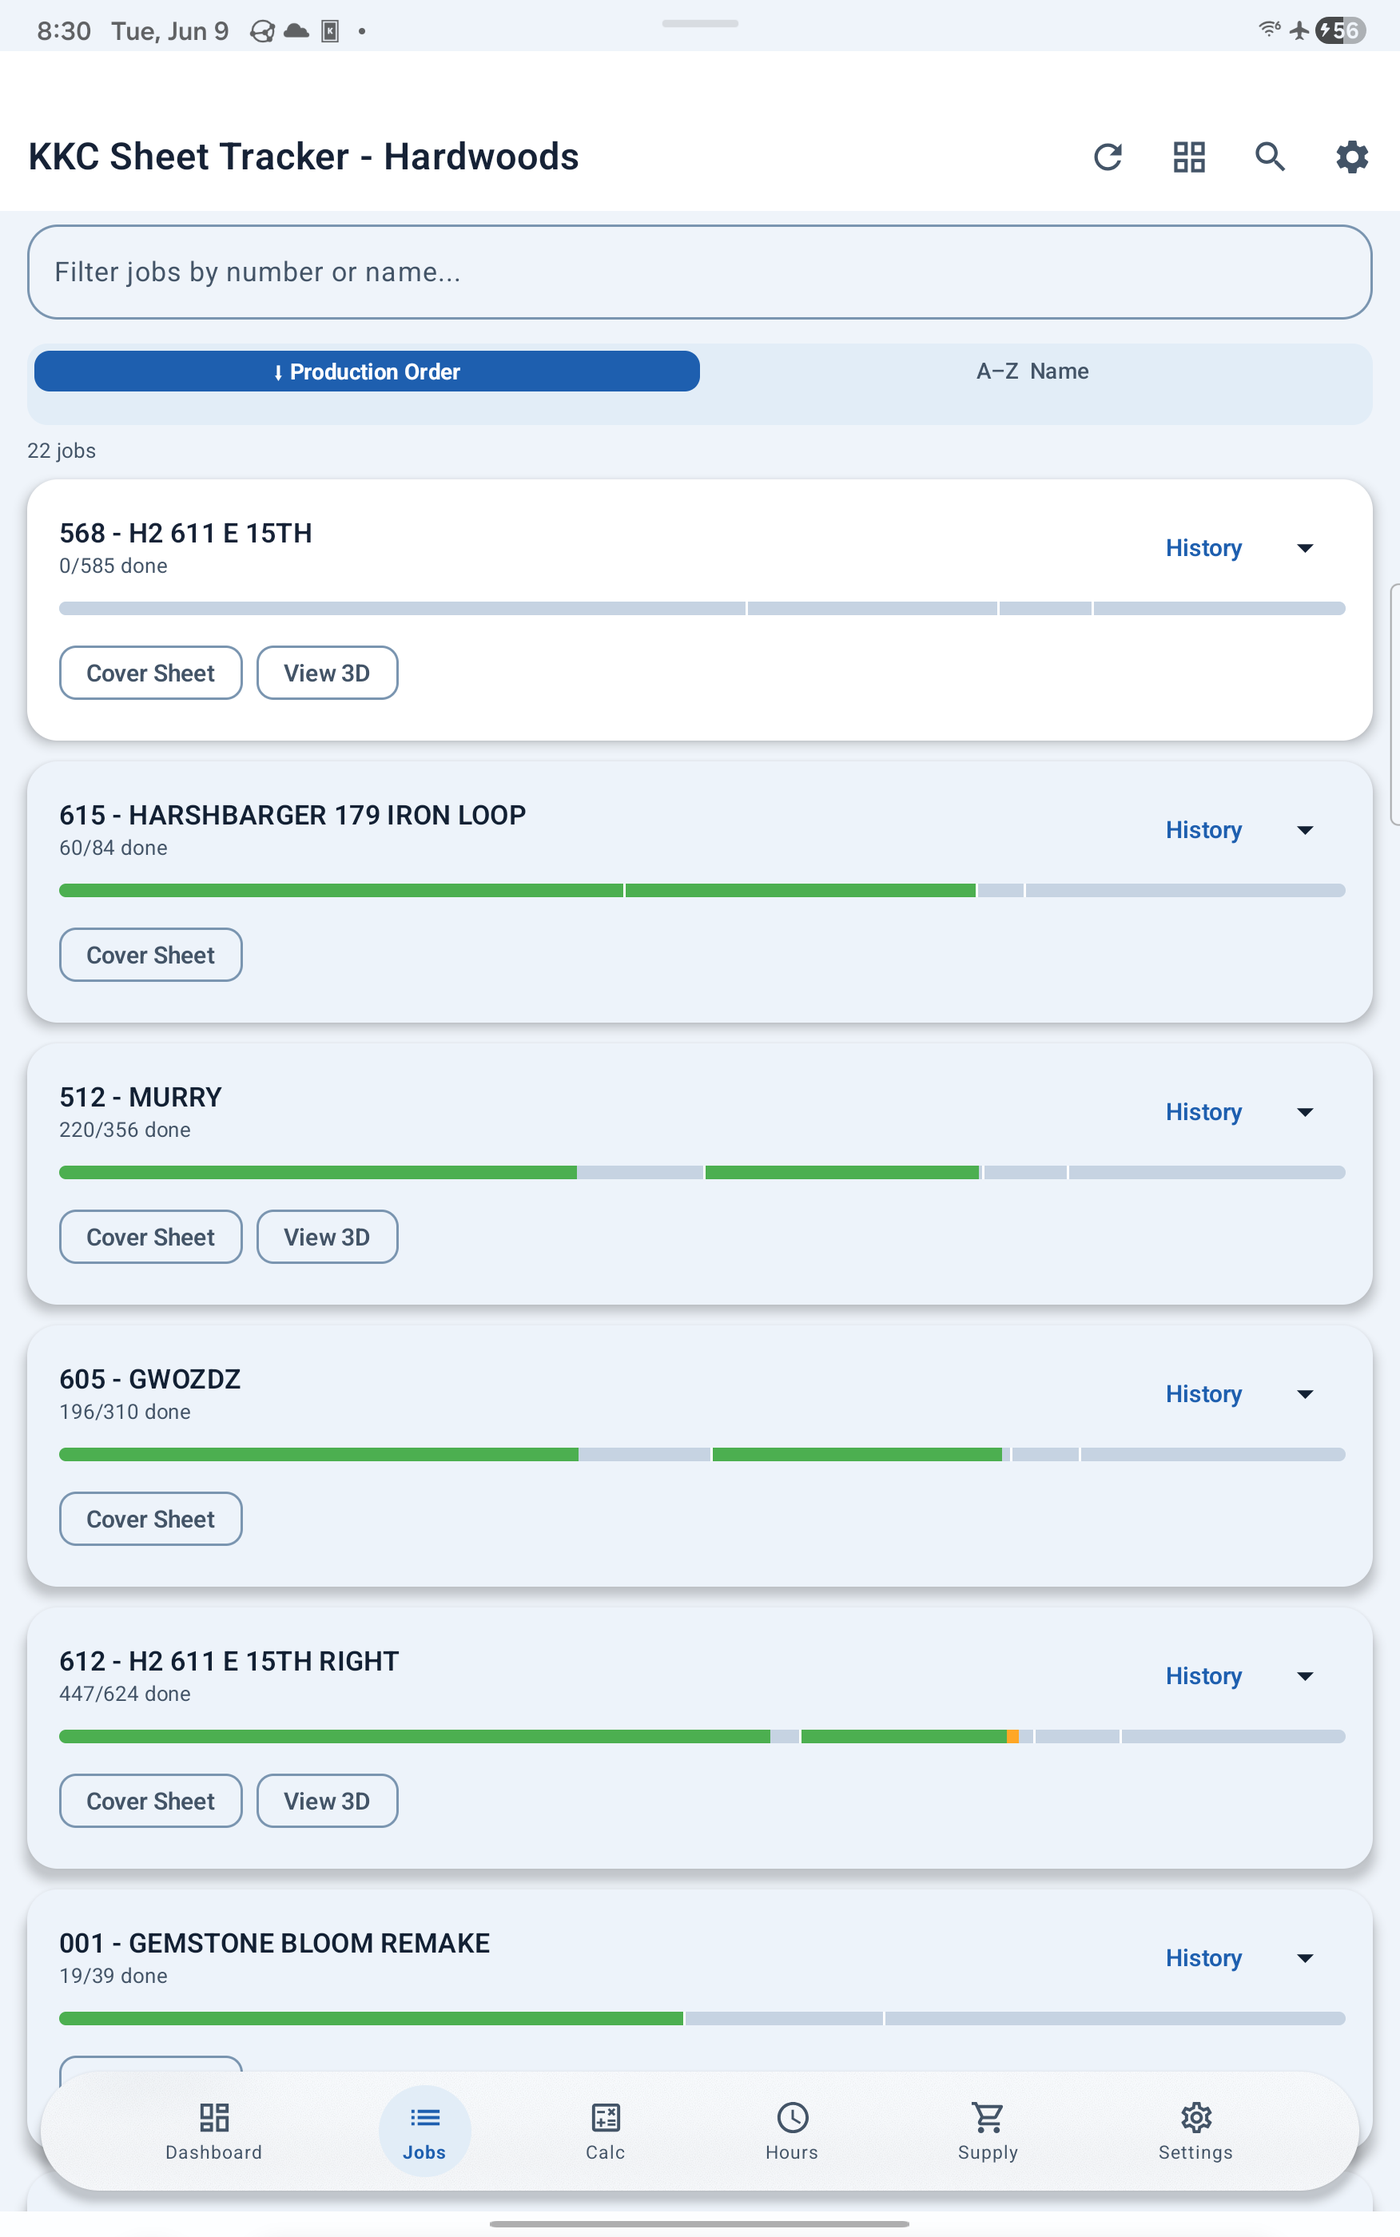
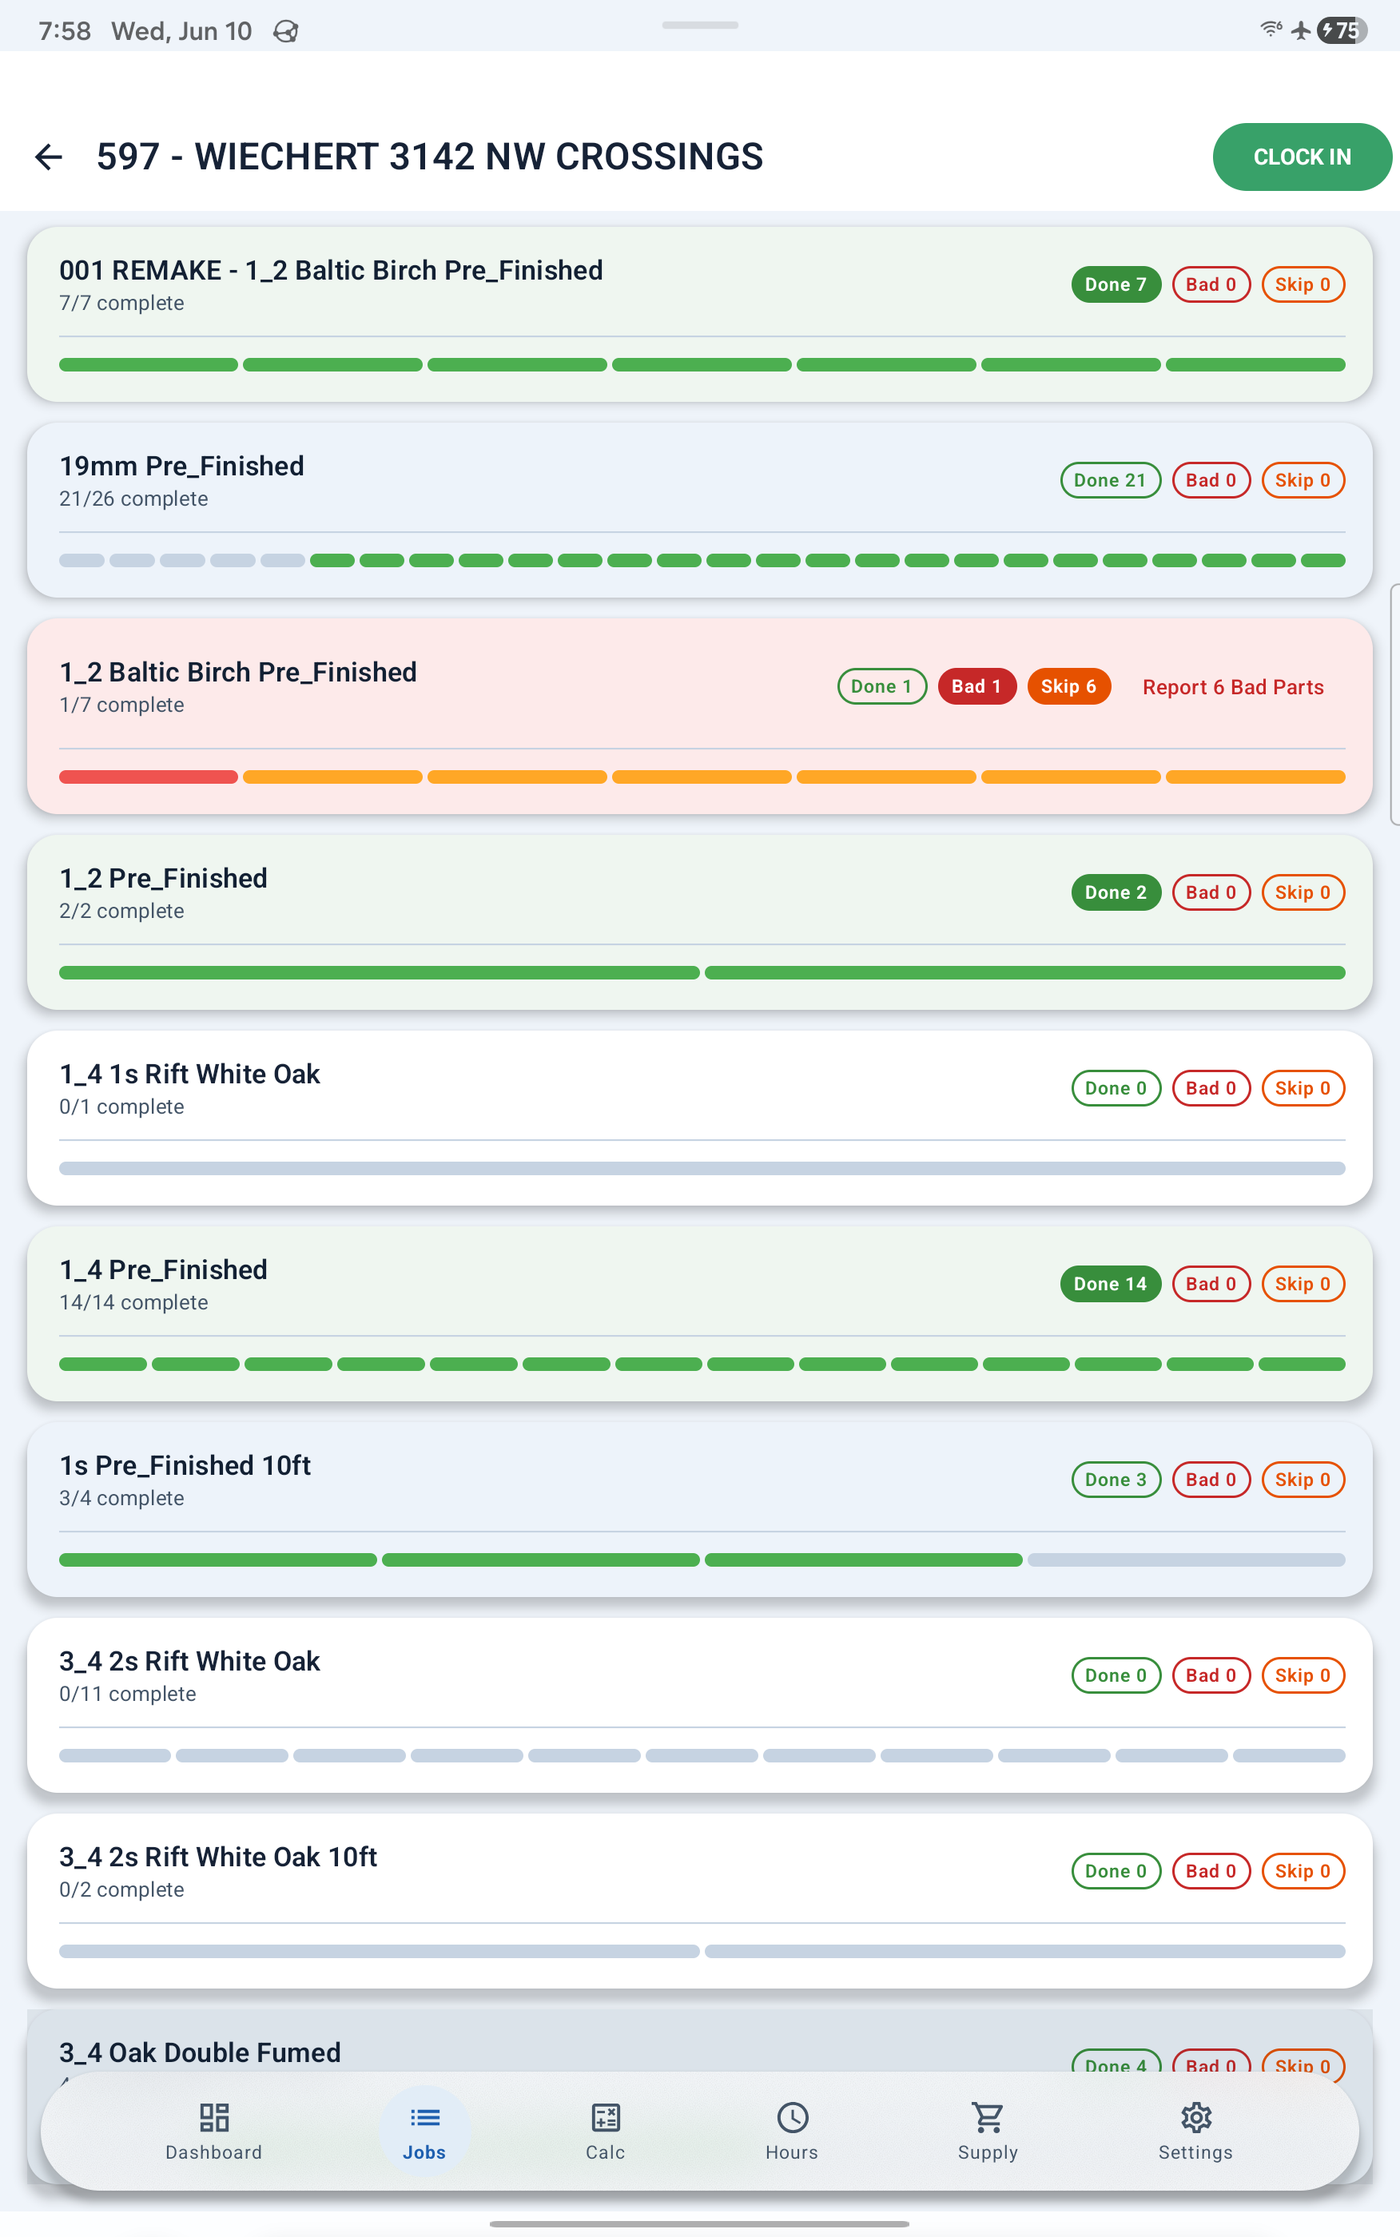
chore: update version to 5.0.1; adjust content padding in various screens; add test for CNC synchronization excluding FACE_FRAME_CUT_LIST

Changed region(s): [[0.0, 0.0, 1.0, 0.9321], [0.0, 0.9632, 0.9863, 0.9943], [0.0925, 0.0, 0.2466, 0.0311]]

diff --git a/app/src/test/java/com/kkc/sheettracker/data/DoorCutSheetFilterTest.kt b/app/src/test/java/com/kkc/sheettracker/data/DoorCutSheetFilterTest.kt
@@ -1,13 +1,21 @@
 package com.kkc.sheettracker.data
 
+import com.google.gson.Gson
+import com.kkc.sheettracker.data.models.HardwoodCutlistIndex
 import com.kkc.sheettracker.data.models.HardwoodCutlistRow
+import com.kkc.sheettracker.data.models.HardwoodDocType
+import com.kkc.sheettracker.data.models.HardwoodDocumentIndex
 import com.kkc.sheettracker.data.models.Part
 import org.junit.Assert.assertEquals
 import org.junit.Assert.assertFalse
 import org.junit.Assert.assertTrue
 import org.junit.Test
+import java.io.File
+import java.nio.file.Files
 
 class DoorCutSheetFilterTest {
+    private val gson = Gson()
+    private val jobFolder = "1234 - Test Job"
 
     @Test
     fun testParseDimension() {
@@ -82,5 +90,160 @@ class DoorCutSheetFilterTest {
             length = 30.5
         )
         assertFalse(preciseMatches(row, partWrongName))
+    }
+
+    @Test
+    fun testSyncCncToHardwoodsExcludesFaceFrameCutList() {
+        val baseDir = Files.createTempDirectory("door-cut-sheet-filter-test").toFile()
+        
+        // Seed CNC files and metadata
+        val jobDir = File(baseDir, jobFolder).apply { mkdirs() }
+        val metadataDir = File(jobDir, ".metadata").apply { mkdirs() }
+        File(metadataDir, "deployment_gate.json").writeText("{\"deployed\": true}")
+        val cncDir = File(jobDir, "CNC").apply { mkdirs() }
+        File(cncDir, "1234 - White Melamine.pdf").writeText("pdf")
+        val cncMetaDir = File(cncDir, ".metadata").apply { mkdirs() }
+        File(cncMetaDir, "1234 - White Melamine.json").writeText(
+            """
+            {
+              "jobNumber": "1234",
+              "jobName": "Test Job",
+              "material": "White Melamine",
+              "pdfFilename": "1234 - White Melamine.pdf",
+              "pages": [
+                {
+                  "pageNumber": 1,
+                  "parts": [
+                    {
+                      "number": 1,
+                      "width": 12.0,
+                      "length": 24.0,
+                      "name": "Side Panel",
+                      "cabNumber": 42,
+                      "room": "Kitchen"
+                    }
+                  ]
+                }
+              ]
+            }
+            """.trimIndent()
+        )
+
+        // Seed ProgressStore state to show sheet 1 is complete
+        val progressStore = ProgressStore(
+            baseDir = baseDir,
+            tabletId = "tablet-a",
+            localStateDir = File(baseDir, ".local"),
+            readOnly = false
+        )
+        progressStore.markSheetComplete(
+            jobFolderName = jobFolder,
+            pdfFilename = "1234 - White Melamine.pdf",
+            page = 1,
+            fileFingerprint = "${File(cncDir, "1234 - White Melamine.pdf").length()}_${File(cncDir, "1234 - White Melamine.pdf").lastModified()}"
+        )
+
+        // Seed Hardwoods index containing FACE_FRAME_CUT_LIST, DOOR_CUT_LIST, DOOR_LIST, NAILER_CUT_LIST
+        val hardwoodDir = File(jobDir, ".metadata/hardwoods").apply { mkdirs() }
+        val hardwoodIndex = HardwoodCutlistIndex(
+            documents = listOf(
+                HardwoodDocumentIndex(
+                    docType = HardwoodDocType.FACE_FRAME_CUT_LIST,
+                    pdfFilename = "1234 - Face Frame Cut List.pdf",
+                    rows = listOf(
+                        HardwoodCutlistRow(
+                            rowId = "ff-row-1",
+                            qty = 1,
+                            material = "Poplar",
+                            description = "Side Panel",
+                            width = "12",
+                            length = "24",
+                            cabinets = listOf("42")
+                        )
+                    )
+                ),
+                HardwoodDocumentIndex(
+                    docType = HardwoodDocType.DOOR_CUT_LIST,
+                    pdfFilename = "1234 - Door Cut List.pdf",
+                    rows = listOf(
+                        HardwoodCutlistRow(
+                            rowId = "door-cut-row-1",
+                            qty = 1,
+                            material = "Poplar",
+                            description = "Side Panel",
+                            width = "12",
+                            length = "24",
+                            cabinets = listOf("42")
+                        )
+                    )
+                ),
+                HardwoodDocumentIndex(
+                    docType = HardwoodDocType.DOOR_LIST,
+                    pdfFilename = "1234 - Door List.pdf",
+                    rows = listOf(
+                        HardwoodCutlistRow(
+                            rowId = "door-list-row-1",
+                            qty = 1,
+                            material = "Poplar",
+                            description = "Side Panel",
+                            width = "12",
+                            length = "24",
+                            cabinets = listOf("42")
+                        )
+                    )
+                ),
+                HardwoodDocumentIndex(
+                    docType = HardwoodDocType.NAILER_CUT_LIST,
+                    pdfFilename = "1234 - Nailer Cut List.pdf",
+                    rows = listOf(
+                        HardwoodCutlistRow(
+                            rowId = "nailer-row-1",
+                            qty = 1,
+                            material = "Poplar",
+                            description = "Side Panel",
+                            width = "12",
+                            length = "24",
+                            cabinets = listOf("42")
+                        )
+                    )
+                )
+            )
+        )
+        File(hardwoodDir, "cutlist_index.json").writeText(gson.toJson(hardwoodIndex))
+
+        // Create repositories and progress store
+        val jobRepository = JobRepository(baseDir, isDebugBuild = true)
+        val hardwoodsRepository = HardwoodsRepository(baseDir)
+        val hardwoodsProgressStore = HardwoodsProgressStore(
+            baseDir = baseDir,
+            tabletId = "tablet-a",
+            readOnly = false
+        )
+
+        // Perform synchronization
+        syncCncToHardwoods(
+            jobFolderName = jobFolder,
+            jobRepository = jobRepository,
+            progressStore = progressStore,
+            hardwoodsRepository = hardwoodsRepository,
+            hardwoodsProgressStore = hardwoodsProgressStore
+        )
+
+        // Flush writes
+        hardwoodsProgressStore.awaitPendingWrites()
+
+        // Verify that FACE_FRAME_CUT_LIST is NOT synced (doneCount remains 0)
+        val ffProgress = hardwoodsProgressStore.getRowProgress(jobFolder, HardwoodDocType.FACE_FRAME_CUT_LIST.name, "ff-row-1")
+        assertEquals(0, ffProgress.doneCount)
+
+        // Verify that DOOR_CUT_LIST, DOOR_LIST, and NAILER_CUT_LIST ARE synced (doneCount is 1)
+        val doorCutProgress = hardwoodsProgressStore.getRowProgress(jobFolder, HardwoodDocType.DOOR_CUT_LIST.name, "door-cut-row-1")
+        assertEquals(1, doorCutProgress.doneCount)
+
+        val doorListProgress = hardwoodsProgressStore.getRowProgress(jobFolder, HardwoodDocType.DOOR_LIST.name, "door-list-row-1")
+        assertEquals(1, doorListProgress.doneCount)
+
+        val nailerProgress = hardwoodsProgressStore.getRowProgress(jobFolder, HardwoodDocType.NAILER_CUT_LIST.name, "nailer-row-1")
+        assertEquals(1, nailerProgress.doneCount)
     }
 }

diff --git a/app/src/main/java/com/kkc/sheettracker/ui/hardwoods/HardwoodsDashboardScreen.kt b/app/src/main/java/com/kkc/sheettracker/ui/hardwoods/HardwoodsDashboardScreen.kt
@@ -5,6 +5,7 @@ import androidx.compose.foundation.clickable
 import androidx.compose.foundation.layout.Arrangement
 import androidx.compose.foundation.layout.Box
 import androidx.compose.foundation.layout.Column
+import androidx.compose.foundation.layout.PaddingValues
 import androidx.compose.foundation.layout.Row
 import androidx.compose.foundation.layout.Spacer
 import androidx.compose.foundation.layout.fillMaxHeight
@@ -203,6 +204,7 @@ fun HardwoodsDashboardScreen(
                     .fillMaxSize()
                     .padding(padding)
                     .padding(KKCSpacing.screenHorizontal),
+                contentPadding = PaddingValues(bottom = 112.dp),
                 verticalArrangement = Arrangement.spacedBy(KKCSpacing.listItemSpacing)
             ) {
                 item {

diff --git a/app/src/main/java/com/kkc/sheettracker/ui/assembly/AssemblyDashboardScreen.kt b/app/src/main/java/com/kkc/sheettracker/ui/assembly/AssemblyDashboardScreen.kt
@@ -202,7 +202,7 @@ fun AssemblyDashboardScreen(
                 else -> {
                     LazyColumn(
                         modifier = Modifier.fillMaxSize(),
-                        contentPadding = PaddingValues(horizontal = KKCSpacing.listContentHorizontal, vertical = KKCSpacing.inCardSpacing),
+                        contentPadding = PaddingValues(start = KKCSpacing.listContentHorizontal, top = KKCSpacing.inCardSpacing, end = KKCSpacing.listContentHorizontal, bottom = 112.dp),
                         verticalArrangement = Arrangement.spacedBy(KKCSpacing.listItemSpacing)
                     ) {
                         items(cards, key = { it.folderName }) { card ->

diff --git a/app/src/main/java/com/kkc/sheettracker/ui/specialty/SpecialtyDashboardScreen.kt b/app/src/main/java/com/kkc/sheettracker/ui/specialty/SpecialtyDashboardScreen.kt
@@ -91,7 +91,7 @@ fun SpecialtyDashboardScreen(
     ) {
         LazyColumn(
         modifier = Modifier.fillMaxSize(),
-        contentPadding = PaddingValues(horizontal = KKCSpacing.listContentHorizontal, vertical = KKCSpacing.listContentVertical),
+        contentPadding = PaddingValues(start = KKCSpacing.listContentHorizontal, top = KKCSpacing.listContentVertical, end = KKCSpacing.listContentHorizontal, bottom = 112.dp),
         verticalArrangement = Arrangement.spacedBy(KKCSpacing.listItemSpacing)
     ) {
         item(key = "summary") {

diff --git a/app/src/test/java/com/kkc/sheettracker/data/BatchSyncTest.kt b/app/src/test/java/com/kkc/sheettracker/data/BatchSyncTest.kt
@@ -159,7 +159,7 @@ class BatchSyncTest {
 
         println("Hardwoods Documents and Matches:")
         hardwoodsIndex.documents.forEach { doc ->
-            if (doc.docType == HardwoodDocType.DOOR_LIST || doc.docType == HardwoodDocType.DOOR_CUT_LIST) {
+            if (doc.docType != HardwoodDocType.FACE_FRAME_CUT_LIST) {
                 println(" - Doc: ${doc.docType}, rows=${doc.rows.size}")
                 doc.rows.forEach { row ->
                     val matching = allCncParts.filter { preciseMatches(row, it.part) }

diff --git a/app/src/main/java/com/kkc/sheettracker/ui/hardwoods/HardwoodsJobBrowserScreen.kt b/app/src/main/java/com/kkc/sheettracker/ui/hardwoods/HardwoodsJobBrowserScreen.kt
@@ -146,7 +146,7 @@ fun HardwoodsJobBrowserScreen(
                 LazyColumn(
                     modifier = Modifier.fillMaxSize(),
                     state = listState,
-                    contentPadding = PaddingValues(16.dp),
+                    contentPadding = PaddingValues(start = 16.dp, top = 16.dp, end = 16.dp, bottom = 112.dp),
                     verticalArrangement = Arrangement.spacedBy(10.dp)
                 ) {
                     items(filteredJobs, key = { it.folderName }) { job ->

diff --git a/app/src/main/java/com/kkc/sheettracker/ui/hardwoods/HardwoodsSearchScreen.kt b/app/src/main/java/com/kkc/sheettracker/ui/hardwoods/HardwoodsSearchScreen.kt
@@ -151,7 +151,7 @@ fun HardwoodsSearchScreen(
                 else -> {
                     LazyColumn(
                         modifier = Modifier.fillMaxSize(),
-                        contentPadding = PaddingValues(horizontal = 16.dp, vertical = 4.dp),
+                        contentPadding = PaddingValues(start = 16.dp, top = 4.dp, end = 16.dp, bottom = 112.dp),
                         verticalArrangement = Arrangement.spacedBy(8.dp)
                     ) {
                         item {

diff --git a/app/src/main/java/com/kkc/sheettracker/ui/assembly/AssemblySearchScreen.kt b/app/src/main/java/com/kkc/sheettracker/ui/assembly/AssemblySearchScreen.kt
@@ -159,7 +159,7 @@ fun AssemblySearchScreen(
                 else -> {
                     LazyColumn(
                         modifier = Modifier.fillMaxSize(),
-                        contentPadding = PaddingValues(horizontal = 16.dp, vertical = 8.dp),
+                        contentPadding = PaddingValues(start = 16.dp, top = 8.dp, end = 16.dp, bottom = 112.dp),
                         verticalArrangement = Arrangement.spacedBy(8.dp)
                     ) {
                         item {

diff --git a/app/src/main/java/com/kkc/sheettracker/ui/search/SearchScreen.kt b/app/src/main/java/com/kkc/sheettracker/ui/search/SearchScreen.kt
@@ -168,7 +168,7 @@ fun SearchScreen(
                 LazyColumn(
                     modifier = Modifier.fillMaxSize(),
                     state = listState,
-                    contentPadding = PaddingValues(horizontal = 16.dp, vertical = 4.dp),
+                    contentPadding = PaddingValues(start = 16.dp, top = 4.dp, end = 16.dp, bottom = 112.dp),
                     verticalArrangement = Arrangement.spacedBy(8.dp)
                 ) {
                     items(results) { result ->

diff --git a/app/src/main/java/com/kkc/sheettracker/ui/specialty/SpecialtyDoorPanelsScreen.kt b/app/src/main/java/com/kkc/sheettracker/ui/specialty/SpecialtyDoorPanelsScreen.kt
@@ -107,7 +107,7 @@ fun SpecialtyDoorPanelsScreen(
                 .fillMaxSize()
                 .padding(padding)
                 .padding(horizontal = KKCSpacing.screenHorizontal),
-            contentPadding = PaddingValues(vertical = KKCSpacing.listContentVertical),
+            contentPadding = PaddingValues(top = KKCSpacing.listContentVertical, bottom = 112.dp),
             verticalArrangement = Arrangement.spacedBy(KKCSpacing.m)
         ) {
             item(key = "job-title") {

diff --git a/app/src/main/java/com/kkc/sheettracker/ui/detail/JobDetailScreen.kt b/app/src/main/java/com/kkc/sheettracker/ui/detail/JobDetailScreen.kt
@@ -193,7 +193,7 @@ fun JobDetailScreen(
                     .fillMaxSize()
                     .padding(padding),
                 state = listState,
-                contentPadding = PaddingValues(16.dp),
+                contentPadding = PaddingValues(start = 16.dp, top = 16.dp, end = 16.dp, bottom = 112.dp),
                 verticalArrangement = Arrangement.spacedBy(12.dp)
             ) {
                 item(key = "reference-doc-buttons") {

diff --git a/app/src/main/java/com/kkc/sheettracker/ui/assembly/AssemblyJobDetailScreen.kt b/app/src/main/java/com/kkc/sheettracker/ui/assembly/AssemblyJobDetailScreen.kt
@@ -94,7 +94,7 @@ fun AssemblyJobDetailScreen(
                 .fillMaxSize()
                 .padding(padding),
             state = listState,
-            contentPadding = PaddingValues(horizontal = 16.dp, vertical = 12.dp),
+            contentPadding = PaddingValues(start = 16.dp, top = 12.dp, end = 16.dp, bottom = 112.dp),
             verticalArrangement = Arrangement.spacedBy(12.dp)
         ) {
             item(key = "summary") {
